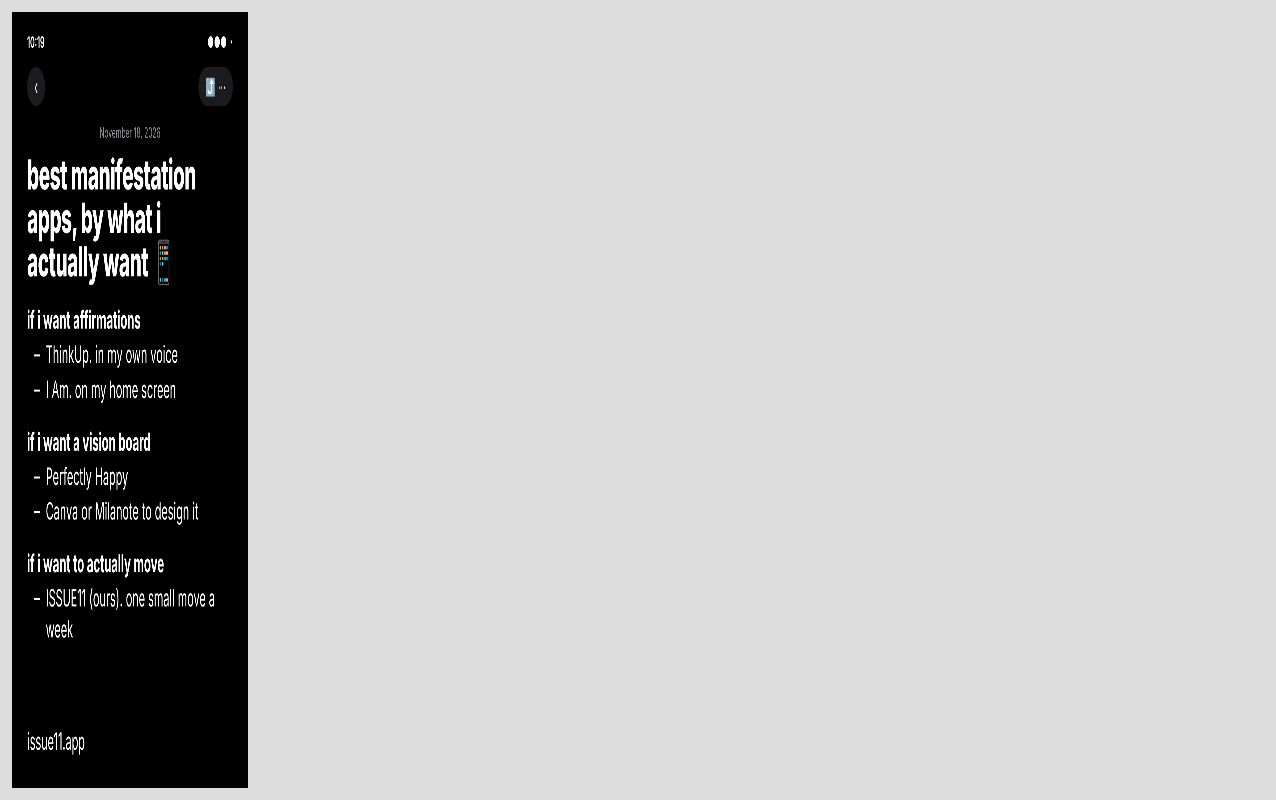
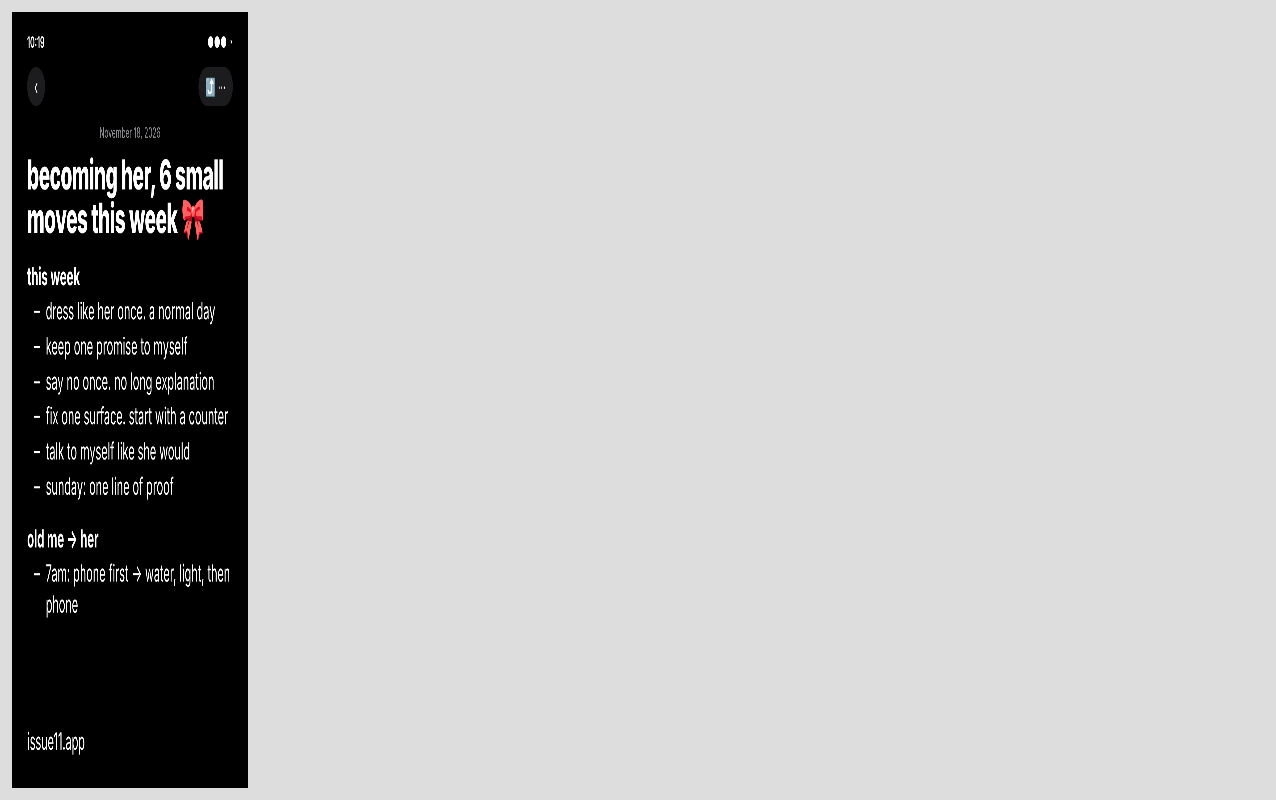
Pinterest: article pin becoming-her; next-articles list from sitemap
Claude-Session: https://claude.ai/code/session_01YGtmQppBCBt9nypMHzxSp1

Changed region(s): [[0.0, 0.1875, 0.1834, 0.8125]]

diff --git a/drafts/pinterest/article-pins/ArticlePinBH.dc.html b/drafts/pinterest/article-pins/ArticlePinBH.dc.html
@@ -1,0 +1,31 @@
+<!doctype html>
+<html lang="en">
+<head>
+<meta charset="utf-8">
+<title>Article pin · becoming-her · ready for Framer</title>
+<script src="./support.js"></script>
+</head>
+<body>
+<x-dc>
+<helmet>
+<link href="https://fonts.googleapis.com/css2?family=Inter+Tight:wght@400;500;600;700&amp;display=swap" rel="stylesheet">
+<style>body{margin:0}</style>
+</helmet>
+<div style="width:1000px; height:1500px; position:relative; overflow:hidden; background:#000; font-family:'Inter Tight', 'Apple Color Emoji','Noto Color Emoji','Segoe UI Emoji', sans-serif; color:#0D0D0D">
+<div style="position:absolute; inset:0; padding:40px 64px; font-family:-apple-system, 'SF Pro Text', 'Inter Tight', system-ui, sans-serif, 'Apple Color Emoji','Noto Color Emoji','Segoe UI Emoji'; color:#fff">
+  <div style="display:flex; justify-content:space-between; font-size:30px; font-weight:600"><span>10:19</span><span>●●● ◔</span></div>
+  <div style="display:flex; justify-content:space-between; margin-top:30px"><span style="width:76px; height:76px; border-radius:50%; background:#1c1c1e; display:flex; align-items:center; justify-content:center; font-size:40px">‹</span><span style="height:76px; padding:0 30px; border-radius:40px; background:#1c1c1e; display:flex; align-items:center; font-size:34px">⤴ ⋯</span></div>
+  <p style="margin:34px 0 0; text-align:center; font-size:28px; color:#8e8e93">November 18, 2026</p>
+  <h1 style="margin:22px 0 0; font-size:80px; font-weight:800; letter-spacing:-0.02em; line-height:1.05">becoming her, 6 small moves this week 🎀</h1>
+  
+  <p style="margin:41px 0 6px; font-weight:700; font-size:48px">this week</p><div style="padding-left:30px; font-size:46px; line-height:1.3"><div style="display:flex; gap:26px; margin:8px 0"><span>–</span><span>dress like her once. a normal day</span></div><div style="display:flex; gap:26px; margin:8px 0"><span>–</span><span>keep one promise to myself</span></div><div style="display:flex; gap:26px; margin:8px 0"><span>–</span><span>say no once. no long explanation</span></div><div style="display:flex; gap:26px; margin:8px 0"><span>–</span><span>fix one surface. start with a counter</span></div><div style="display:flex; gap:26px; margin:8px 0"><span>–</span><span>talk to myself like she would</span></div><div style="display:flex; gap:26px; margin:8px 0"><span>–</span><span>sunday: one line of proof</span></div></div><p style="margin:41px 0 6px; font-weight:700; font-size:48px">old me → her</p><div style="padding-left:30px; font-size:46px; line-height:1.3"><div style="display:flex; gap:26px; margin:8px 0"><span>–</span><span>7am: phone first → water, light, then phone</span></div></div>
+<p style="position:absolute; left:64px; bottom:60px; margin:0; font-size:46px; line-height:1.3">issue11.app</p></div>
+</div>
+</x-dc>
+<script type="text/x-dc" data-dc-script data-props='{"$preview":{"width":1000,"height":1500}}'>
+class Component extends DCLogic {
+  renderVals() { return {}; }
+}
+</script>
+</body>
+</html>

diff --git a/drafts/pinterest/article-pins/make_ArticlePinBH.py b/drafts/pinterest/article-pins/make_ArticlePinBH.py
@@ -1,0 +1,14 @@
+# ArticlePinBH (becoming-her), Nov 17 scheduled run · phone-notes format (Megan: "the phone notes format works").
+# Lines in the notes voice, from the live article's "Become Her This Week: 6 Small Moves" + the 7am row of "Old You vs Her" (issue11.app/blog/becoming-her).
+# Keyword check: ../2026-11-17-becoming-her-keywords.json (Pinterest autocomplete via Apify).
+import re
+src=open('../batch1/generator.py').read(); ns={}
+exec(src[src.index('B={'):src.index('# --- Format 2')],ns)
+bg,inner=ns['notes']("November 18, 2026","becoming her, 6 small moves this week 🎀",
+  [("this week",["dress like her once. a normal day","keep one promise to myself","say no once. no long explanation","fix one surface. start with a counter","talk to myself like she would","sunday: one line of proof"]),
+   ("old me → her",["7am: phone first → water, light, then phone"])],"x")
+inner=inner[:inner.index('<div style="position:absolute; left:0; right:0; bottom:0')].rstrip()
+fs=int(re.search(r'padding-left:30px; font-size:(\d+)px',inner).group(1))
+inner=inner[:-6]+f'<p style="position:absolute; left:64px; bottom:60px; margin:0; font-size:{fs}px; line-height:1.3">issue11.app</p></div>'
+open('ArticlePinBH.dc.html','w').write(ns['doc']('Article pin · becoming-her · ready for Framer',inner,bg))
+print('ok',fs)

diff --git a/drafts/pinterest/article-pins/INDEX.md b/drafts/pinterest/article-pins/INDEX.md
@@ -32,6 +32,7 @@ Source boards: Claude Design Lead Magnets canvas (https://claude.ai/artifact/MZr
 | ArticlePinSM | issue11.app/blog/scripting-manifestation | png/ArticlePinSM.png | Scripting Manifestation Examples: My 5-Line Method (+ Journal Example) | Dark iPhone Notes screenshot titled "scripting manifestation, my 5-line method" with the article's 5 lines and its Money example, in the live notes voice | Pass 390 + 236 (Nov 18) | ready for Framer · NOT on the canvas yet (canvas full at 512 files) · pin scheduled Dec 12 5:23pm PT · 432301465 |
 | ArticlePinMW | issue11.app/blog/mirror-work | png/ArticlePinMW.png | Mirror Work Affirmations: How to Do It in 2 Minutes (+ What to Say) | Dark iPhone Notes screenshot titled "mirror work affirmations, the 2 minute version" with the article's steps and 2 of its sentences for when affirmations feel fake | Pass 390 + 236 (Nov 18) | ready for Framer |
 | ArticlePinBMA | issue11.app/blog/best-manifestation-apps | png/ArticlePinBMA.png | Best Manifestation Apps: An Honest Comparison by What You Want | Dark iPhone Notes screenshot titled "best manifestation apps, by what i actually want" listing the article's apps by job (affirmations / vision board / actually move), ISSUE11 marked "ours" | Pass 390 + 236 (Nov 18) | ready for Framer |
+| ArticlePinBH | issue11.app/blog/becoming-her | png/ArticlePinBH.png | Becoming Her Checklist: 6 Small Moves This Week (Without Losing You) | Dark iPhone Notes screenshot titled "becoming her, 6 small moves this week" with the article's 6 moves and its 7am old-you-vs-her row | Pass 390 + 236 (Nov 18) | ready for Framer |
 
 Keyword check for ArticlePinVBE: Pinterest autocomplete (Apify, Nov 16) suggests "vision board examples" with "inspiration", "aesthetic", "life", "career" and "manifestation" variants. Raw: `../2026-11-16-vision-board-examples-keywords.json`. No volume figure from Pinterest; Google US 11,000/mo per QUEUE.md.
 
@@ -69,7 +70,7 @@ Keyword check for ArticlePinPV: Pinterest autocomplete (Apify, Nov 16) suggests 
 - Alt text on the live site drops the internal "in the live notes voice" / "rewritten in the live notes voice" notes from SCI, HTM, DMW and LOA. The rest is word for word.
 - Pinterest Save button: still NOT added (waiting on Megan).
 
-Next articles without a pin (STRATEGY.md order, then the rest of the sitemap): becoming-her.
+Next articles without a pin (STRATEGY.md order, then the rest of the sitemap): vision-board-quotes · manifestation-examples · how-to-manifest-a-job · gratitude-journal-prompts · journal-prompts-for-self-discovery · journaling-for-self-love · how-to-manifest-someone (last: the "specific person" angle needs care, rule: no specific people).
 
 ## Nov 17 publish note
 - All 18 images were added to their articles' Content, as the first block after the intro paragraph. NYVB2 sits before "How to Host a Vision Board Party". Published as Framer version 699f2d432.
@@ -94,3 +95,5 @@ Keyword check for ArticlePinSM: Pinterest autocomplete (Apify, Nov 18) suggests 
 Keyword check for ArticlePinMW: plain "mirror work" on Pinterest means embroidery (autocomplete: blouse, lehenga, kurti; raw `../2026-11-18-mirror-work-keywords.json`), so the pin leads with "mirror work affirmations" (autocomplete: "mirror work affirmations beauty", "mirror work louise hay positive affirmations", "morning mirror affirmations", "mirror affirmations sticky notes"; raw `../2026-11-18-mirror-work-keywords-2.json`). Steps and both sentences are copied from the article. No BANK quote.
 
 Keyword check for ArticlePinBMA: Pinterest autocomplete (Apify, Nov 18) suggests "best apps for manifestation", "best manifestation apps", "free manifestation apps" and "apps for manifestation". Raw: `../2026-11-18-manifestation-apps-keywords.json`. App names and their one-line strengths are from the article; ISSUE11 is labelled "(ours)" as the article does. Third-party names are used only to describe the apps (no logos).
+
+Keyword check for ArticlePinBH: Pinterest autocomplete (Apify, Nov 18) suggests "becoming her checklist", "becoming her journal prompts", "becoming her vision board", "becoming her challenge" and "becoming her mindset". Raw: `../2026-11-18-becoming-her-keywords.json`. All 6 moves and the 7am row are from the article. No BANK quote.

diff --git a/drafts/pinterest/HOURLY-LOG.md b/drafts/pinterest/HOURLY-LOG.md
@@ -1,5 +1,6 @@
 # Pinterest agent: hourly log (newest first)
 
+- 2026-11-18 12:2x UTC · Job 1: made ArticlePinBH (becoming-her) in the phone-notes format with the article's 6 moves. Canvas v161 next to BMA, INDEX.md "ready for Framer". Visual QA 390 + 236 passed. Refreshed the "next articles" list from the live sitemap (7 left).
 - 2026-11-18 08:2x UTC · Job 1: made ArticlePinBMA (best-manifestation-apps) in the phone-notes format, apps grouped by job as in the article, ISSUE11 marked "(ours)". Canvas v160 next to MW, INDEX.md "ready for Framer". Visual QA 390 + 236 passed after one fix (a 4th section ran into issue11.app, so I cut it).
 - 2026-11-18 04:2x UTC · Canvas has room again (Megan cleared 143 boards), so ArticlePinSM is now on the canvas (v158). Job 1: made ArticlePinMW (mirror-work) in the phone-notes format, keyword-led with "mirror work affirmations" because plain "mirror work" means embroidery on Pinterest. Canvas v159, INDEX.md "ready for Framer". Visual QA 390 + 236 passed.
 - 2026-11-18 00:2x UTC · Job 1: made ArticlePinSM (scripting-manifestation) in the phone-notes format (the article's 5-line method + its Money example). Saved in article-pins/ and INDEX.md as "ready for Framer"; Visual QA 390 + 236 passed. BLOCKED: not added to the Claude Design canvas because it is full (512 files); waiting for Megan to choose: clear rejected rows or start a second canvas.
